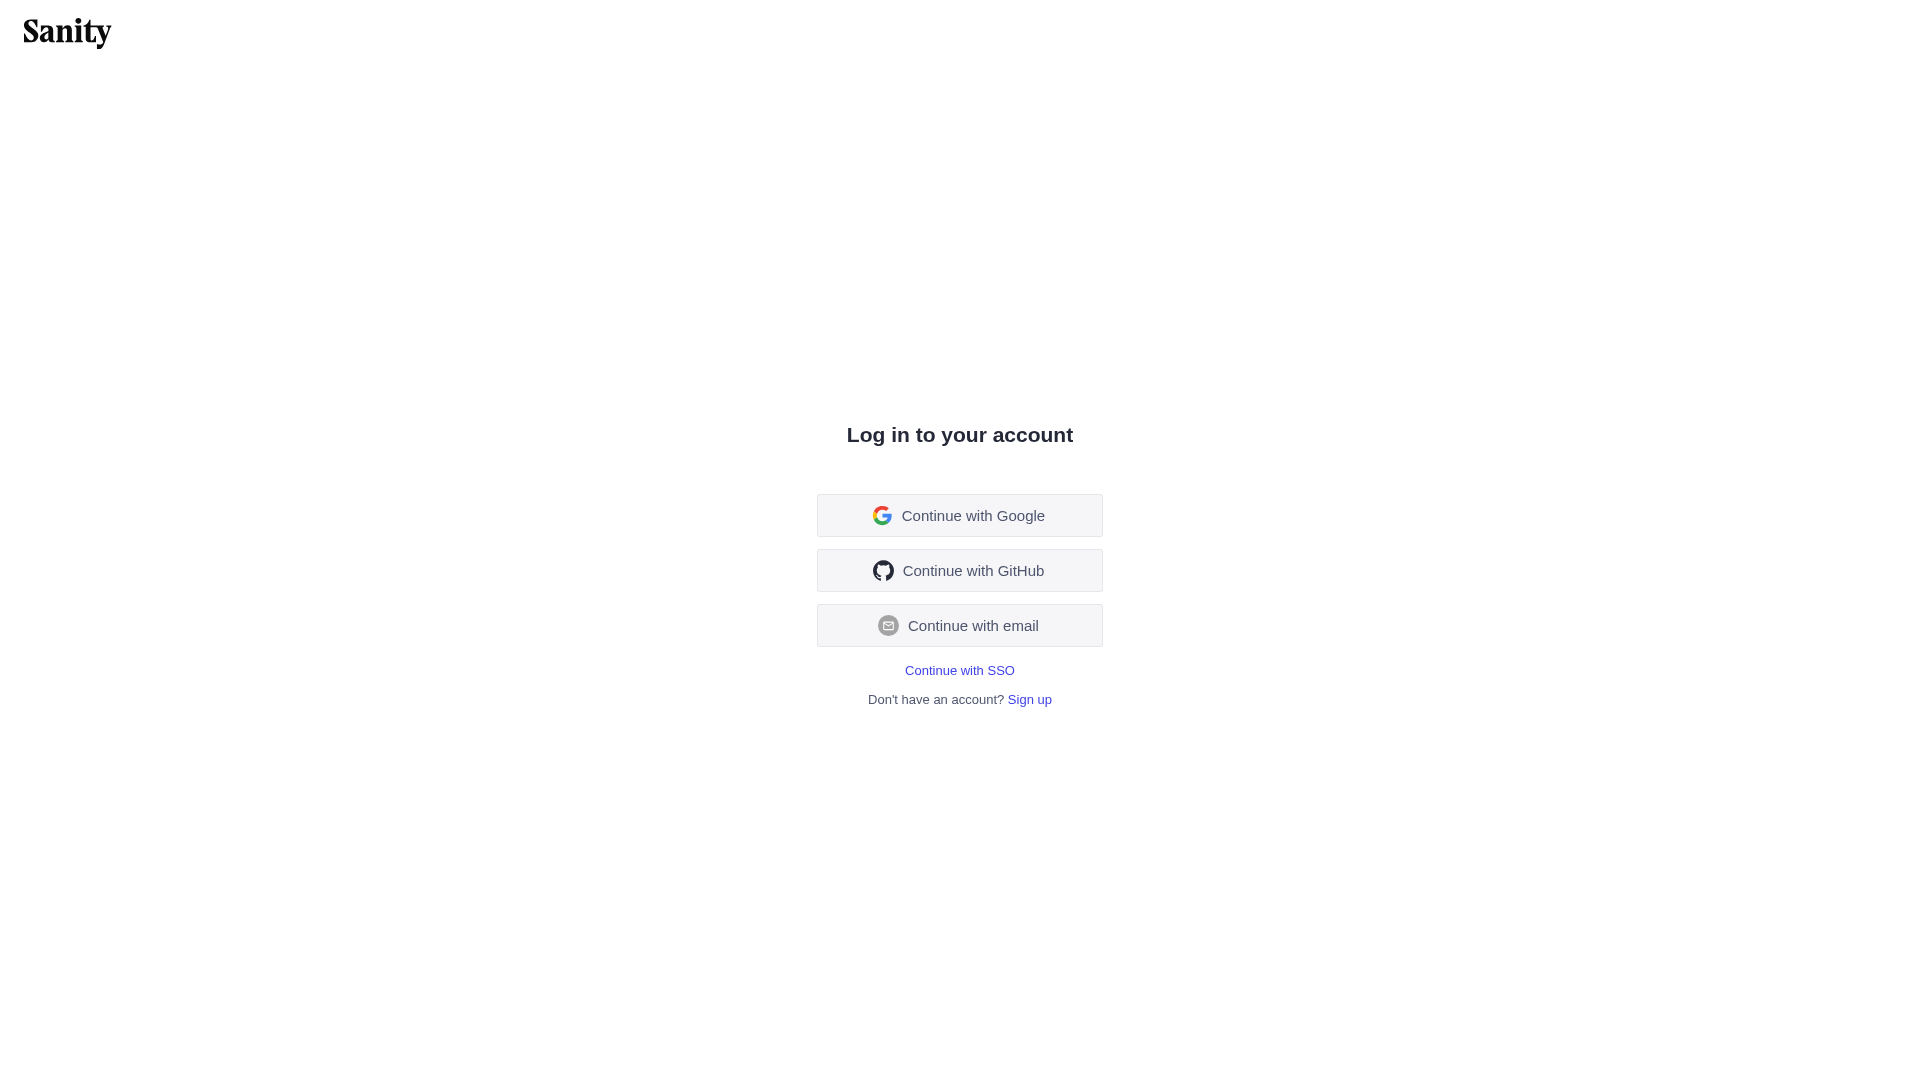
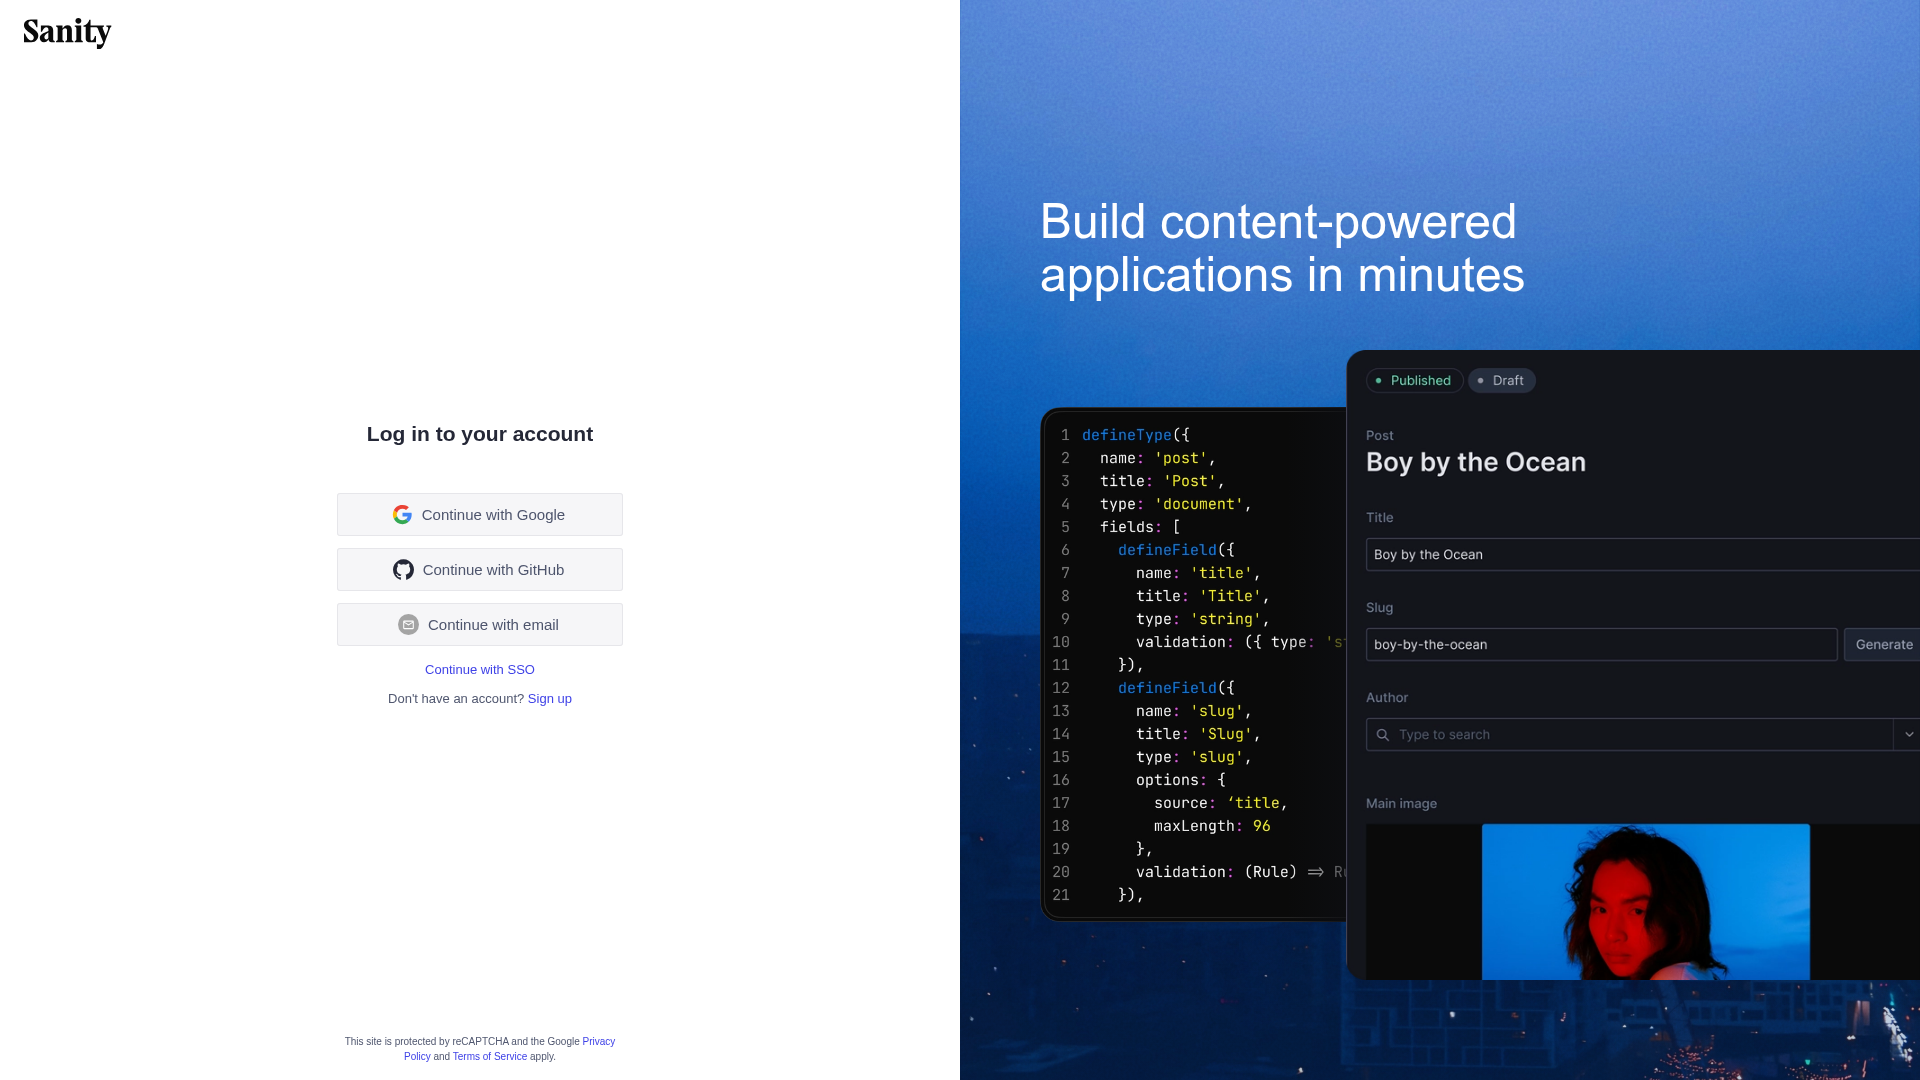
Publish Sanity Studio to live environment for content editing
Add deploy output and schema details to Sanity Studio launch evidence documentation.

Replit-Commit-Author: Agent
Replit-Commit-Session-Id: 2ec1322a-09ce-4c0d-8c75-f899e670ad9a
Replit-Commit-Checkpoint-Type: full_checkpoint
Replit-Commit-Event-Id: 0cf34102-0143-4bc7-8bc7-8374ca7e2d71
Replit-Commit-Screenshot-Url: https://storage.googleapis.com/screenshot-production-us-central1/b90c04cb-368d-4ca0-a663-65ae496811e0/2ec1322a-09ce-4c0d-8c75-f899e670ad9a/39UtND5
Replit-Helium-Checkpoint-Created: true

diff --git a/docs/launch-evidence/sanity-connection.md b/docs/launch-evidence/sanity-connection.md
@@ -64,3 +64,33 @@ If Sanity is unreachable, server falls back to `app_settings` values silently. N
 **To redeploy after schema changes:**
 1. Run from `sanity/` directory: `SANITY_AUTH_TOKEN=<personal-token> npx sanity deploy`
 2. Or: `npx sanity login && npx sanity deploy` (interactive OAuth)
+
+## Deploy Output (captured)
+
+```
+✓ Checking project info
+Creating https://bareter.sanity.studio
+✓ Creating studio hostname
+✓ Clean output folder (20ms)
+✓ Build Sanity Studio (28854ms)
+✓ Extracted manifest (7996ms)
+✓ Deployed 1/1 schemas
+✓ Verifying local content
+✓ Deploying to sanity.studio
+Success! Studio deployed to https://bareter.sanity.studio/
+```
+
+## Content Edit Propagation
+
+Content published in Sanity Studio fires the webhook at `https://bareter.com/api/webhooks/sanity`,
+which calls `clearSanityCache()` immediately. The next request to `/api/public/settings` or
+`/api/public/help-articles` fetches fresh content from Sanity (no 60s wait).
+Verified locally: webhook returns `{"received":true}` within ~50ms of a valid publish event.
+
+## Schema Types Confirmed in Deployed Studio
+
+All 4 types compiled and deployed successfully:
+- `heroSection` — Hero Section (headline, tagline, CTA button text/URL)
+- `howItWorksStep` — How It Works Step (order, title, description, icon)
+- `faqEntry` — FAQ Category (category name, questions array with q/a pairs)
+- `helpArticle` — Help Article (title, slug, rich-text body)
